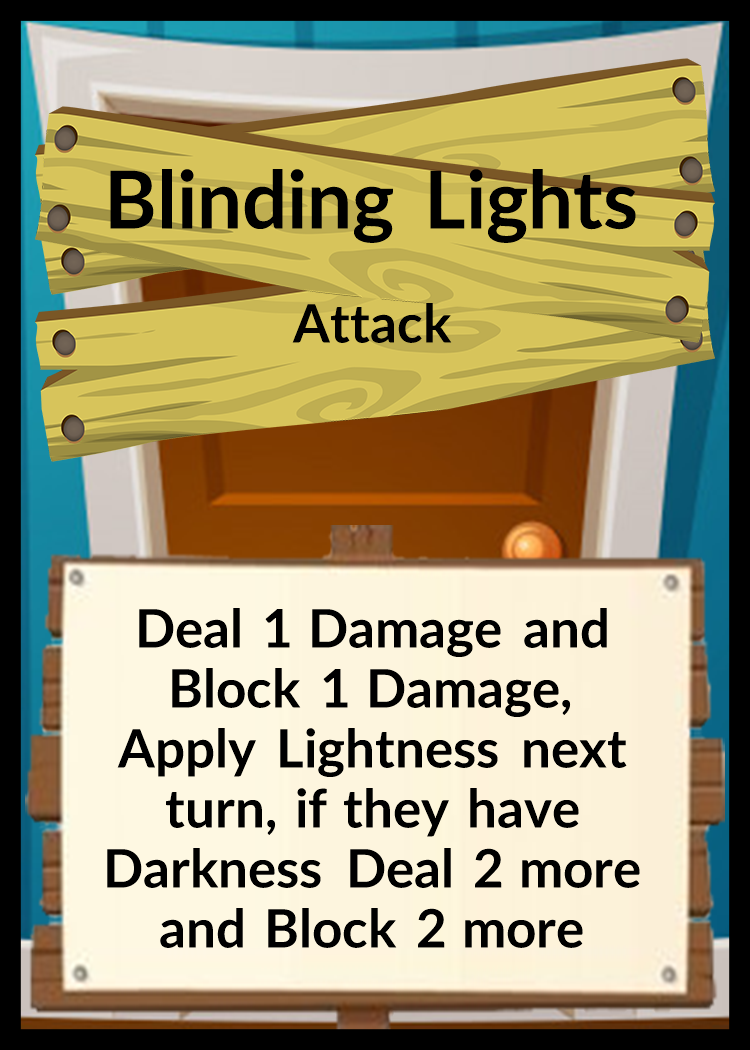
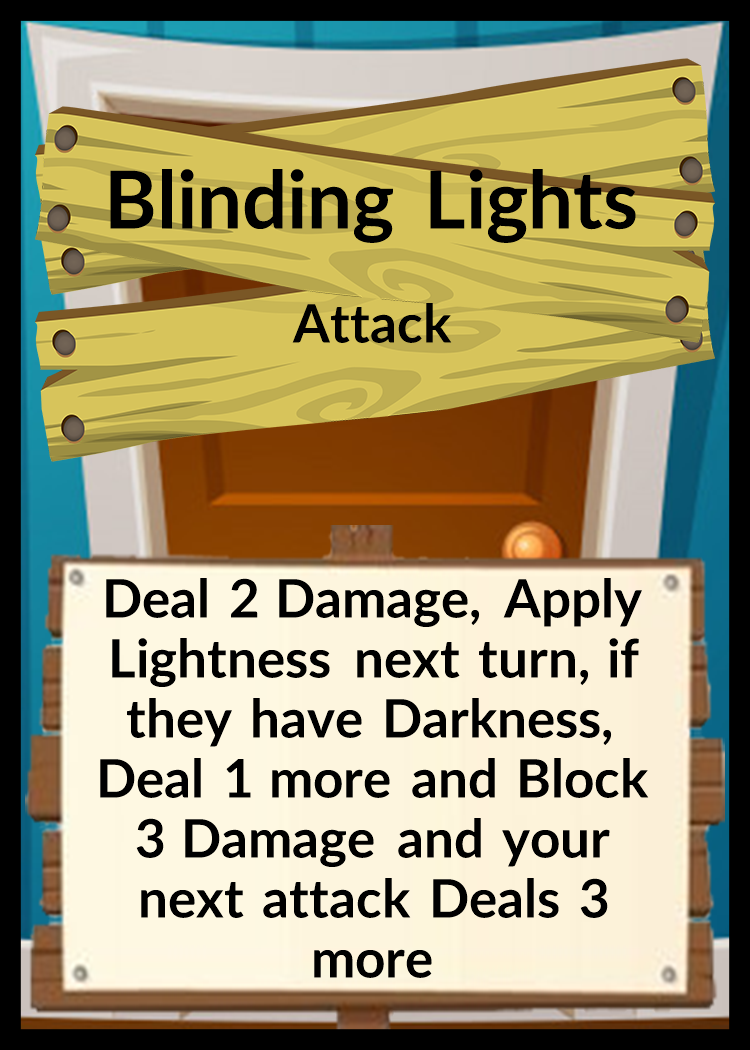
tuned the gameplay

Changed region(s): [[0.1227, 0.5486, 0.8587, 0.9448]]

diff --git a/MonoDragons.GGJ/GGJ/Data/Cards.cs b/MonoDragons.GGJ/GGJ/Data/Cards.cs
@@ -26,6 +26,7 @@ namespace MonoDragons.GGJ.Data
             { CardName.BothBarrels, s => new CardView(s, "CowboyCard12")  },
             { CardName.CrackShot, s => new CardView(s, "CowboyCard13") },
             { CardName.Reload, s => new CardView(s, "CowboyCard14") },
+            { CardName.Wanted, s => new CardView(s, "CowboyCard15") },
 
             { CardName.HousePass, s => new CardView(s, "SmartHouseCard0") },
             { CardName.Lamp, s => new CardView(s, "SmartHouseCard1") },
@@ -73,6 +74,7 @@ namespace MonoDragons.GGJ.Data
             { CardName.BothBarrels, CardType.Attack },
             { CardName.CrackShot, CardType.Attack },
             { CardName.Reload, CardType.Defend },
+            { CardName.Wanted, CardType.Charge },
 
             { CardName.HousePass, CardType.Pass },
             { CardName.Lamp, CardType.Attack },
@@ -193,6 +195,14 @@ namespace MonoDragons.GGJ.Data
                     Event.Publish(new DamageNotBlockedEffectQueued { Target = Player.Cowboy,
                         Event = new NextAttackEmpowered { Target = Player.Cowboy, Amount = 4 } });
                 } },
+            { CardName.Wanted, data =>
+                {
+                    Event.Publish(new NextAttackEmpowered { Target = Player.Cowboy, Amount = 2 });
+                    Event.Publish(new CounterEffectQueued { Caster = Player.Cowboy, Type = CardType.Attack,
+                        Event = new DamageTakenMultiplied { Target = Player.Cowboy, Multiplier = 0.5m }});
+                    Event.Publish(new CounterEffectQueued { Caster = Player.Cowboy, Type = CardType.Attack,
+                        Event = new BlockRecievedMultiplied { Target = Player.House, Multiplier = 0.5m }});
+                } },
 
             { CardName.HousePass, data => {} },
             { CardName.Lamp, data => Event.Publish(new PlayerDamageProposed { Amount = 3, Target = Player.Cowboy }) },
@@ -201,7 +211,10 @@ namespace MonoDragons.GGJ.Data
                     Event.Publish(new PlayerBlockProposed { Amount = 3, Target = Player.House } );
                     Event.Publish(new StatusApplied { Target = Player.Cowboy, Status = new Status { Name = "Darkness", Events = new List<object> { new NextTurnEffectQueued { Event = new StatusRemoved { Name = "Darkness", Target = Player.Cowboy } } } }});
                     if (data.CowboyState.Statuses.Any(x => x.Name == "Lightness"))
-                        Event.Publish(new PlayerBlockProposed { Amount = 5, Target = Player.House });
+                    {
+                        Event.Publish(new PlayerBlockProposed { Amount = 6, Target = Player.House });
+                        Event.Publish(new NextAttackEmpowered { Amount = 3, Target = Player.House });
+                    }
                 }
             },
             { CardName.BlindingLights, data =>
@@ -213,6 +226,7 @@ namespace MonoDragons.GGJ.Data
                     {
                         Event.Publish(new PlayerDamageProposed { Amount = 2, Target = Player.Cowboy });
                         Event.Publish(new PlayerBlockProposed { Amount = 2, Target = Player.House } );
+                        Event.Publish(new NextAttackEmpowered { Amount = 3, Target = Player.House });
                     }
                 }
             },
@@ -223,23 +237,15 @@ namespace MonoDragons.GGJ.Data
                 } },
             { CardName.HeatUp, data =>
                 {
-                    if (data.CowboyState.Statuses.All(x => x.Name != "Hot"))
-                    {
-                        Event.Publish(new StatusRemoved { Target = Player.Cowboy, Name = "Cold" });
-                        Event.Publish(new StatusRemoved { Target = Player.House, Name = "Cold" });
-                        Event.Publish(new StatusApplied { Target = Player.Cowboy, Status = new Status { Name = "Hot", Events = new List<object> { new DamageEffectQueued { Target = Player.Cowboy, Event = new PlayerDamaged { Target = Player.Cowboy, Amount = 2 }}}}});
-                        Event.Publish(new StatusApplied { Target = Player.House, Status = new Status { Name = "Hot", Events = new List<object> { new DamageEffectQueued { Target = Player.House, Event = new PlayerDamaged { Target = Player.House, Amount = 1 }}}}});
-                    }
+                    Event.Publish(new PlayerDamageProposed { Target = Player.Cowboy, Amount = 2 });
+                    Event.Publish(new PlayerDamageProposed { Target = Player.House, Amount = 2 });
+                    Event.Publish(new NextAttackEmpowered { Target = Player.House, Amount = 2 });
+                    Event.Publish(new DamageEffectQueued { Target = Player.House, Event = new NextAttackEmpowered { Target = Player.House, Amount = 4 }});
                 } },
             { CardName.CoolDown, data =>
                 {
-                    if (data.CowboyState.Statuses.All(x => x.Name != "Cold"))
-                    {
-                        Event.Publish(new StatusRemoved { Target = Player.Cowboy, Name = "Hot" });
-                        Event.Publish(new StatusRemoved { Target = Player.House, Name = "Hot" });
-                        Event.Publish(new StatusApplied { Target = Player.Cowboy, Status = new Status { Name = "Cold" }});
-                        Event.Publish(new StatusApplied { Target = Player.House, Status = new Status { Name = "Cold", Events = new List<object> { new PlayerBlockProposed { Target = Player.House, Amount = 1 }}}});
-                    }
+                    Event.Publish(new NextAttackEmpowered { Target = Player.House, Amount = 3 });
+                    Event.Publish(new NextTurnEffectQueued { Event = new DamageTakenMultiplied { Target = Player.House, Multiplier = 0.5m }});
                 } },
             { CardName.ShippingBoxesWall, data => Event.Publish(new PlayerBlockProposed { Amount = 5, Target = Player.House }) },
             { CardName.SpinningFanBlades, data =>
@@ -386,6 +392,7 @@ namespace MonoDragons.GGJ.Data
         SpinningFanBlades = 24,
         RoombaAttack = 25,
         PowerCordTrip = 26,
+        Wanted = 39,
 
         BedderLuckNextTime = 27,
         PillowFight = 28,

diff --git a/MonoDragons.GGJ/GGJ/Gameplay/Characters/Character.cs b/MonoDragons.GGJ/GGJ/Gameplay/Characters/Character.cs
@@ -30,6 +30,7 @@ namespace MonoDragons.GGJ.Gameplay
             Event.Subscribe<StatusApplied>(OnStatusApplied, this);
             Event.Subscribe<StatusRemoved>(OnStatusRemoved, this);
             Event.Subscribe<EnergyGained>(OnEnergyGained, this);
+            Event.Subscribe<EnergyLossed>(OnEnergyLossed, this);
             Event.Subscribe<CardResolutionBegun>(e => Resolve(), this);
             Event.Subscribe<PlayerDamaged>(OnPlayereDamaged, this);
         }
@@ -75,6 +76,8 @@ namespace MonoDragons.GGJ.Gameplay
 
         private void OnEnergyGained(EnergyGained e) => ExecuteIfTarget(e.Target, () => State.Energy += e.Amount);
 
+        private void OnEnergyLossed(EnergyLossed e) => ExecuteIfTarget(e.Target, () => State.Energy -= e.Amount);
+
         private void ExecuteIfTarget(Player target, Action action)
         {
             if (target == _player)
@@ -83,10 +86,12 @@ namespace MonoDragons.GGJ.Gameplay
 
         private void Resolve()
         {
-            var incomingDamage = State.IncomingDamage;
-            State.DamageTakenMultipliers.ForEach(x => incomingDamage = x * incomingDamage);
-            var availableBlock = State.AvailableBlock;
-            State.BlockRecievedMultiplier.ForEach(x => availableBlock = availableBlock * x);
+            decimal incomingDamageDec = State.IncomingDamage;
+            State.DamageTakenMultipliers.ForEach(x => incomingDamageDec = x * incomingDamageDec);
+            var incomingDamage = (int)Math.Floor(incomingDamageDec);
+            decimal availableBlockDec = State.AvailableBlock;
+            State.BlockRecievedMultiplier.ForEach(x => availableBlockDec = availableBlockDec * x);
+            var availableBlock = (int) Math.Floor(availableBlockDec);
             if (availableBlock > 0 && incomingDamage > 0)
             {
                 Event.Publish(new DamageBlocked { Target = State.Player, Amount = Math.Min(availableBlock, incomingDamage)});
@@ -112,8 +117,8 @@ namespace MonoDragons.GGJ.Gameplay
             State.OnNotDamaged = new List<object>();
             State.OnDamageBlocked = new List<object>();
             State.OnDamageNotBlocked = new List<object>();
-            State.DamageTakenMultipliers = new List<int>();
-            State.BlockRecievedMultiplier = new List<int>();
+            State.DamageTakenMultipliers = new List<decimal>();
+            State.BlockRecievedMultiplier = new List<decimal>();
         }
 
         private void OnPlayereDamaged(PlayerDamaged e)

diff --git a/MonoDragons.GGJ/GGJ/Gameplay/Characters/CharacterState.cs b/MonoDragons.GGJ/GGJ/Gameplay/Characters/CharacterState.cs
@@ -16,8 +16,8 @@ namespace MonoDragons.GGJ.Gameplay
         public List<object> OnNotDamaged { get; set; }
         public List<object> OnDamageBlocked { get; set; }
         public List<object> OnDamageNotBlocked { get; set; }
-        public List<int> DamageTakenMultipliers { get; set; }
-        public List<int> BlockRecievedMultiplier { get; set; }
+        public List<decimal> DamageTakenMultipliers { get; set; }
+        public List<decimal> BlockRecievedMultiplier { get; set; }
         public List<Status> Statuses { get; set; }
         public int Energy { get; set; }
 
@@ -30,8 +30,8 @@ namespace MonoDragons.GGJ.Gameplay
             OnNotDamaged = new List<object>();
             OnDamageBlocked = new List<object>();
             OnDamageNotBlocked = new List<object>();
-            DamageTakenMultipliers = new List<int>();
-            BlockRecievedMultiplier = new List<int>();
+            DamageTakenMultipliers = new List<decimal>();
+            BlockRecievedMultiplier = new List<decimal>();
             Statuses = new List<Status>();
         }
     }

diff --git a/MonoDragons.GGJ/GGJ/Gameplay/LevelProgression.cs b/MonoDragons.GGJ/GGJ/Gameplay/LevelProgression.cs
@@ -26,7 +26,7 @@ namespace MonoDragons.GGJ.Gameplay
         private void SetupCharacters(int level)
         {
             _data.InitLevel(level, 
-                new CharacterState(Player.Cowboy, level == 1 ? 50 : _data.CowboyState.HP + 10,
+                new CharacterState(Player.Cowboy, level == 1 ? 40 : _data.CowboyState.HP + 10,
                     new PlayerCardsState(
                         CreateCard(CardName.CowboyPass),
                         CreateCard(CardName.SixShooter),

diff --git a/MonoDragons.GGJ/GGJ/Gameplay/Events/BlockRecievedMultiplied.cs b/MonoDragons.GGJ/GGJ/Gameplay/Events/BlockRecievedMultiplied.cs
@@ -3,6 +3,6 @@
     public class BlockRecievedMultiplied
     {
         public Player Target { get; set; }
-        public int Multiplier { get; set; }
+        public decimal Multiplier { get; set; }
     }
 }

diff --git a/MonoDragons.GGJ/GGJ/Gameplay/Events/DamageTakenMultiplied.cs b/MonoDragons.GGJ/GGJ/Gameplay/Events/DamageTakenMultiplied.cs
@@ -3,6 +3,6 @@
     public class DamageTakenMultiplied
     {
         public Player Target { get; set; }
-        public int Multiplier { get; set; }
+        public decimal Multiplier { get; set; }
     }
 }
